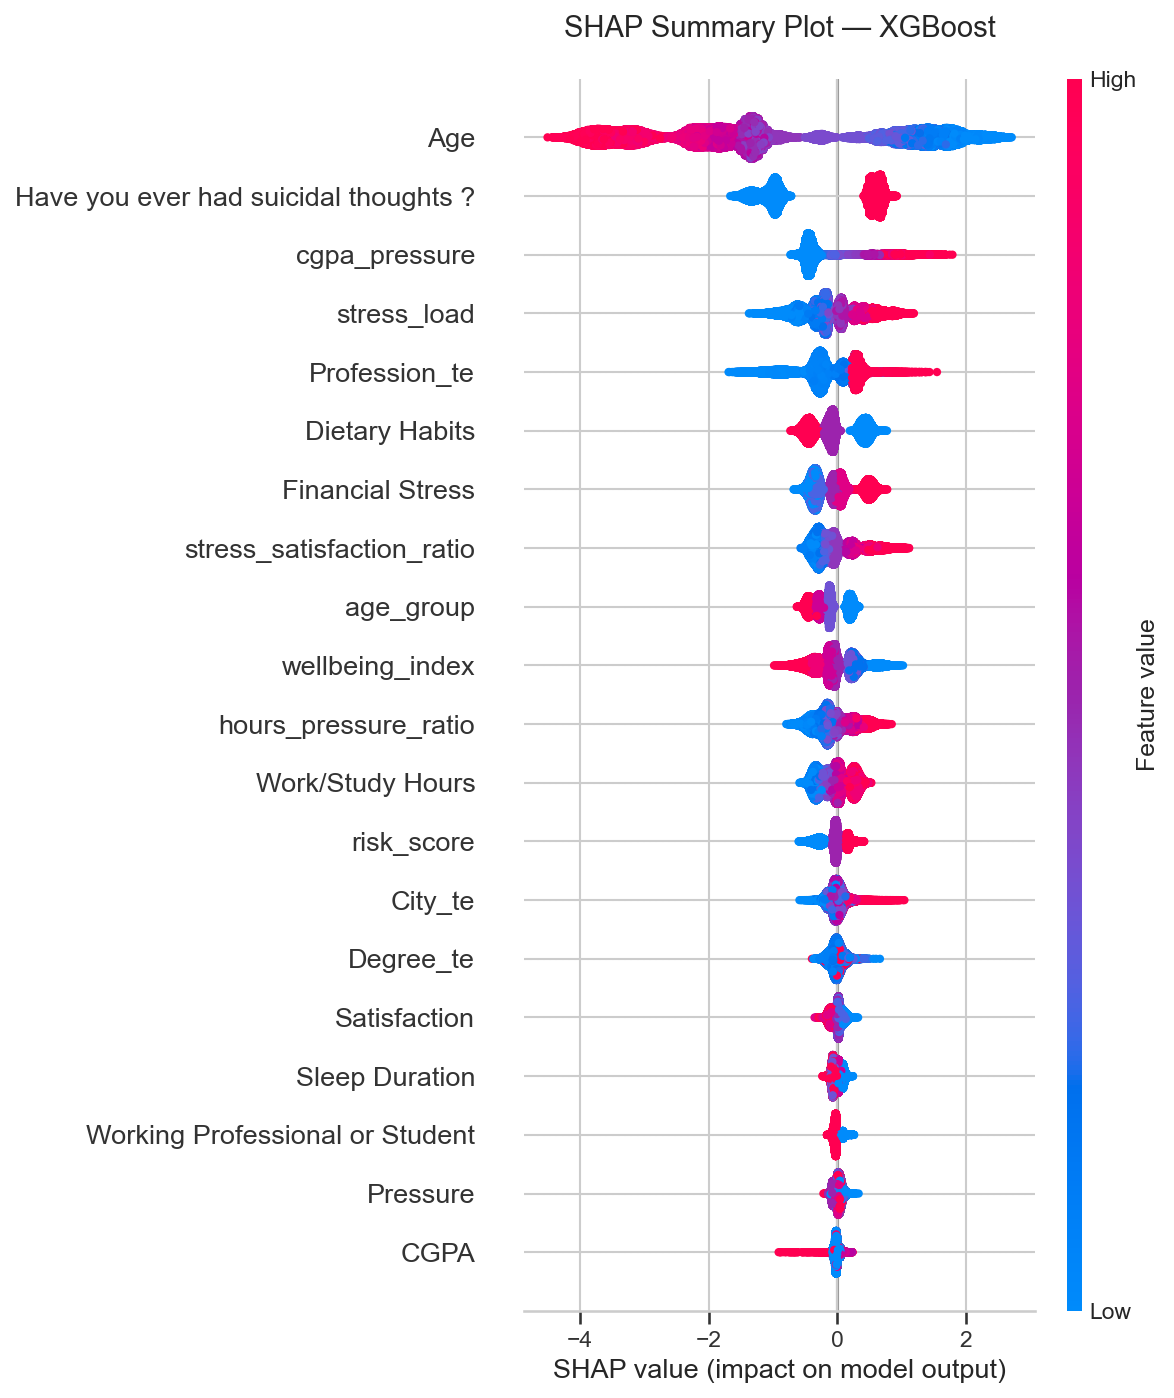
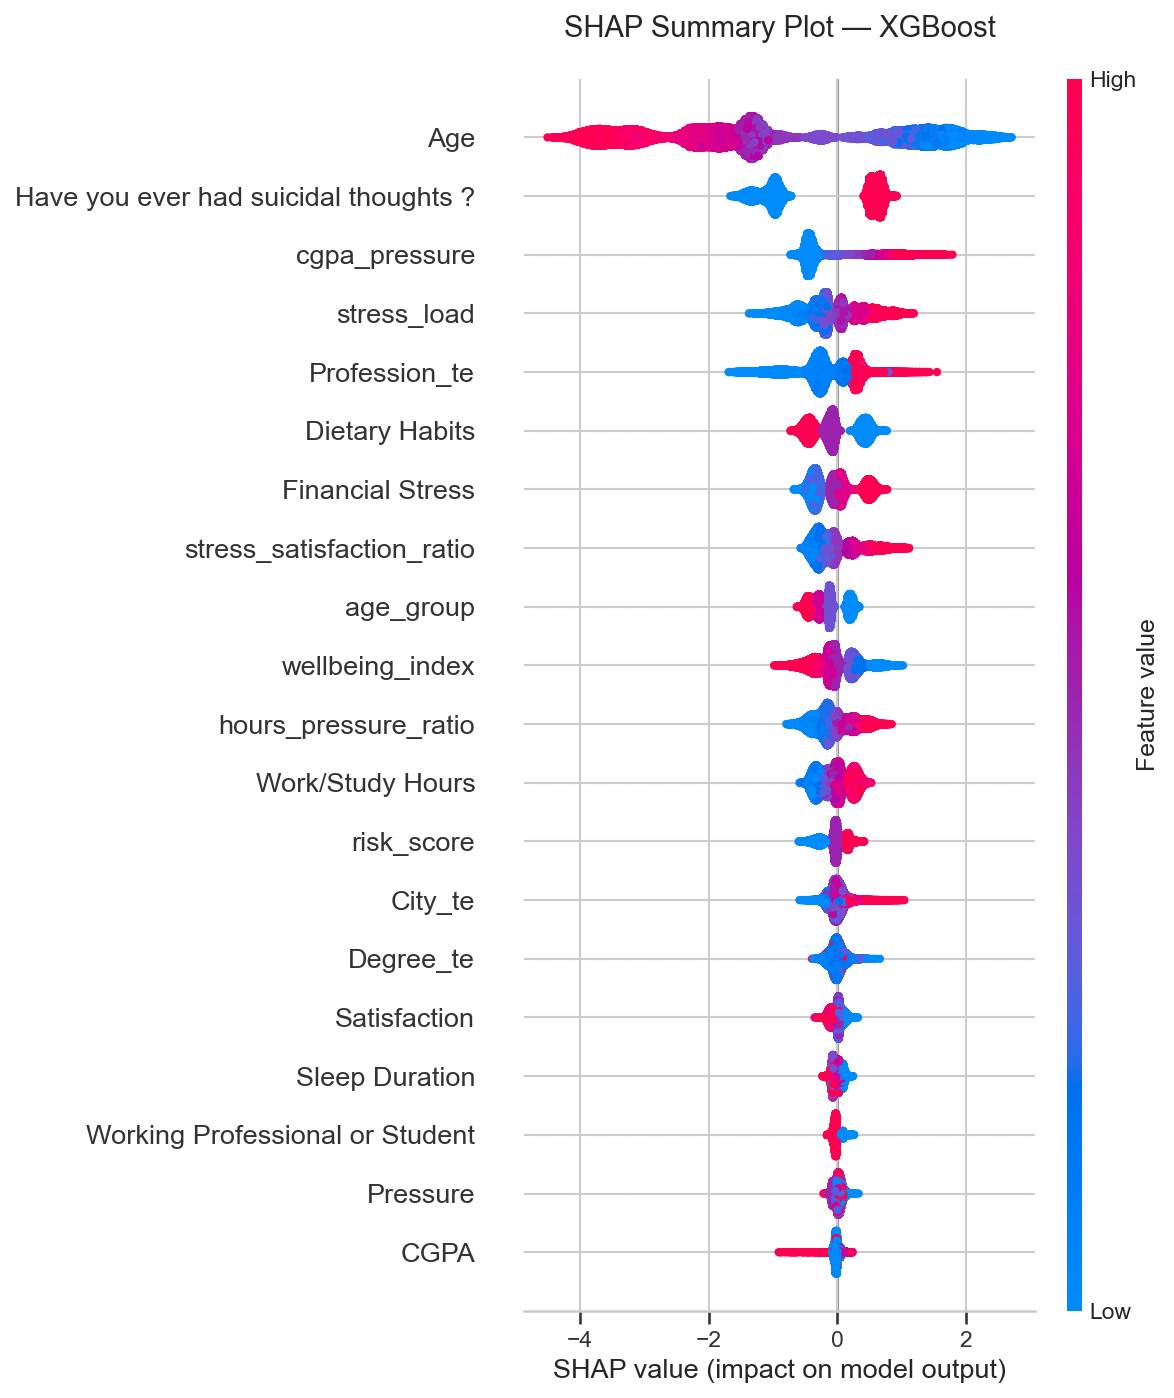
chore: add comment code

diff --git a/report_latex/content/sec1_planning.tex b/report_latex/content/sec1_planning.tex
@@ -20,7 +20,7 @@ Dự án được thực hiện bởi nhóm 5 thành viên. Bảng~\ref{tab:task
 2 & Đàm Tiến Đạt — 23120118 & NB3, Báo cáo LaTeX & 100\% \\
 3 & Triệu Tuấn Kiệt — 23120137 & NB2, Báo cáo LaTeX & 100\% \\
 4 & Lê Nhật Minh Tâm — 23120163 & NB5, Báo cáo LaTeX, Edit Video & 100\% \\
-5 & Nguyễn Hồ Anh Tuấn — 23120185 & NB4, Báo cáo LaTeX & 100\% \\
+5 & Nguyễn Hồ Anh Tuấn — 23120185 & NB4, Báo cáo LaTeX, Edit Video & 100\% \\
 \bottomrule
 \end{tabular}
 \end{table}
